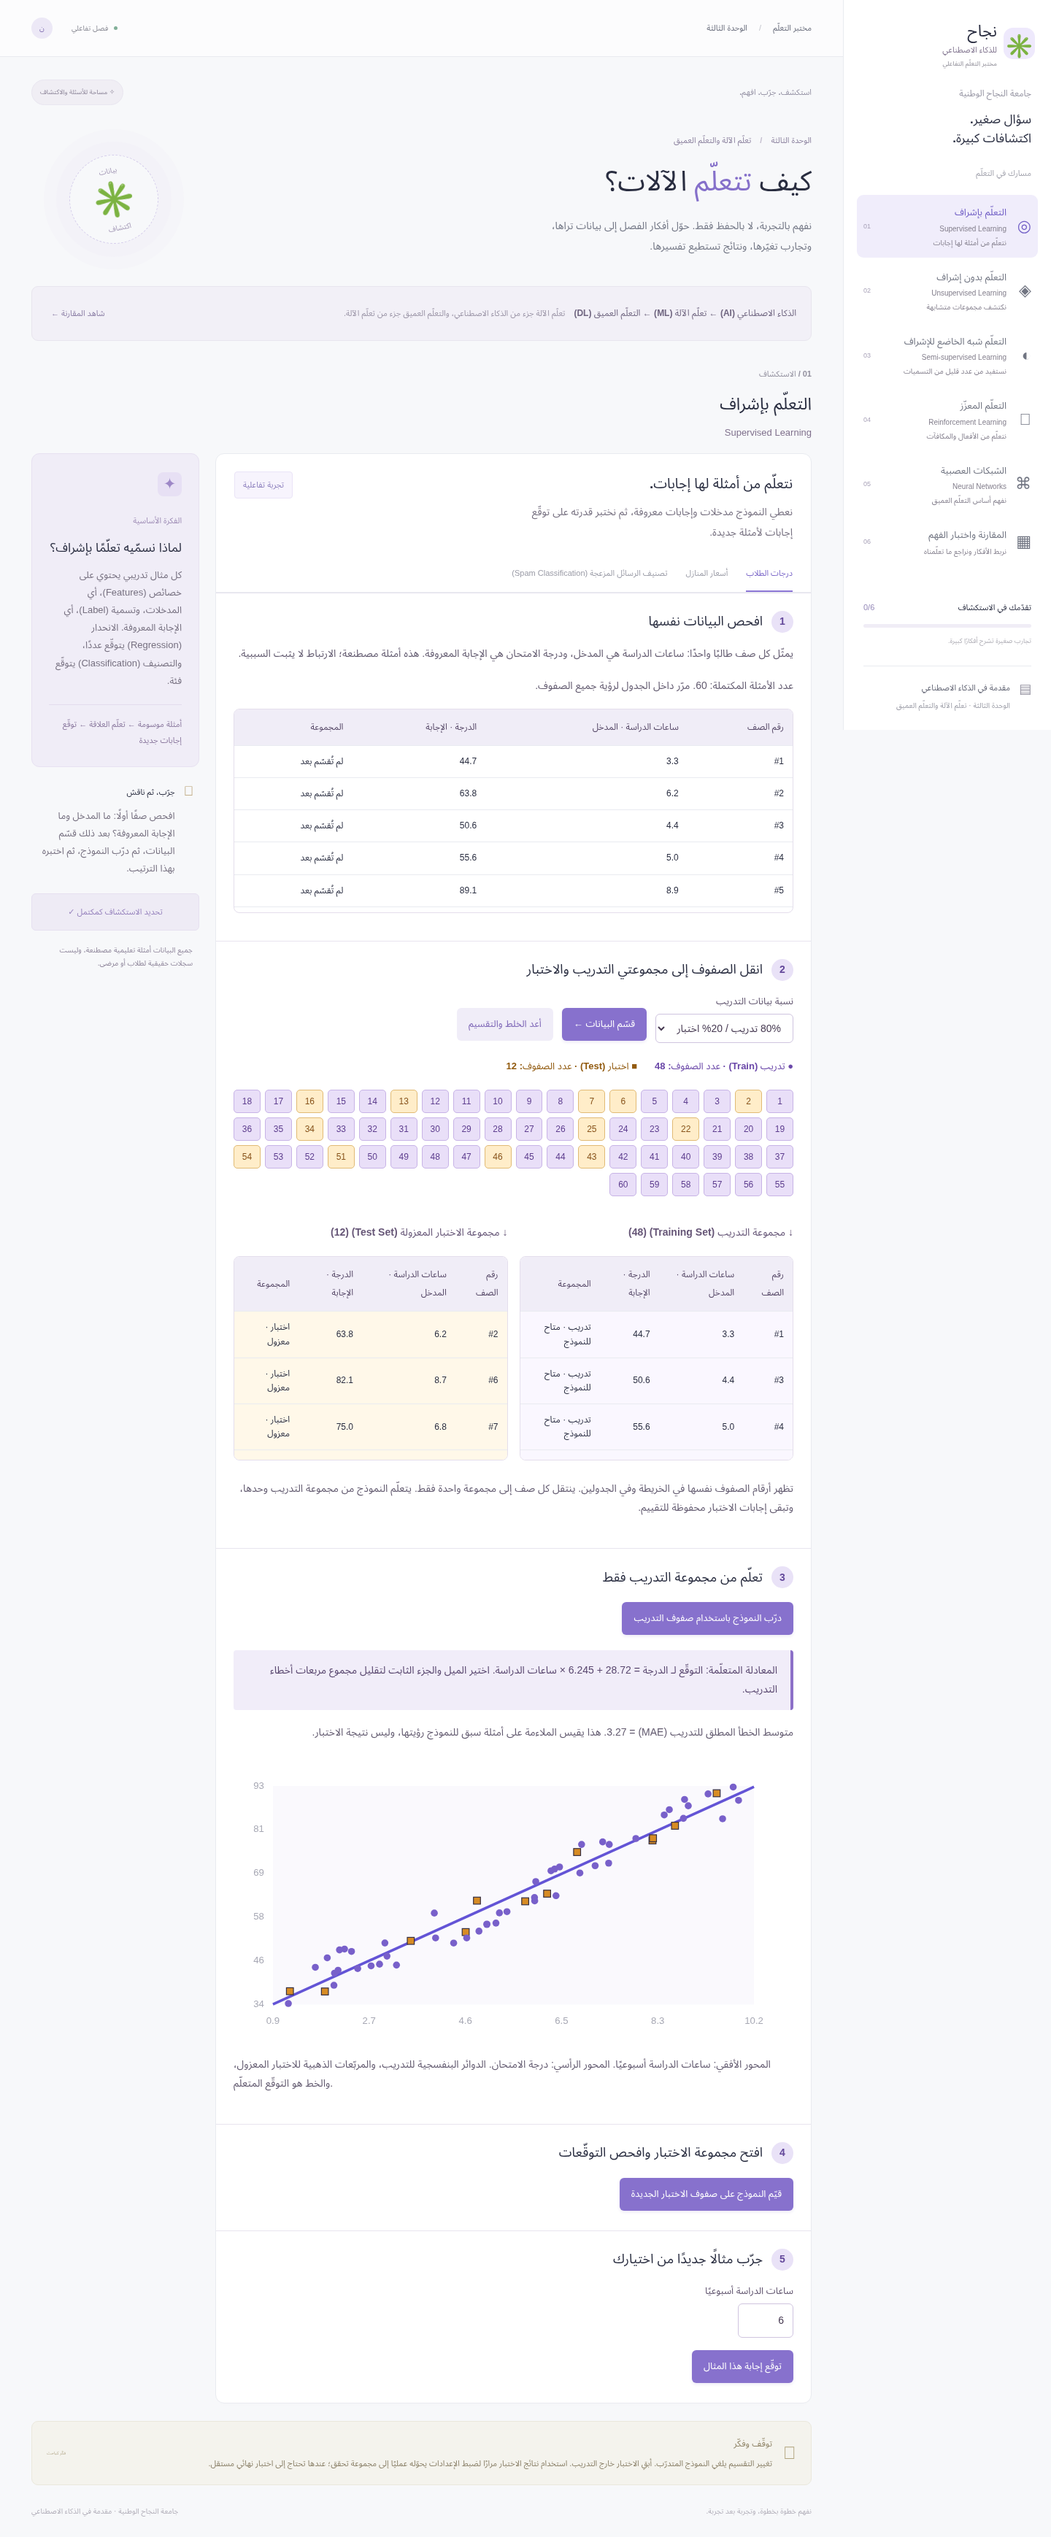
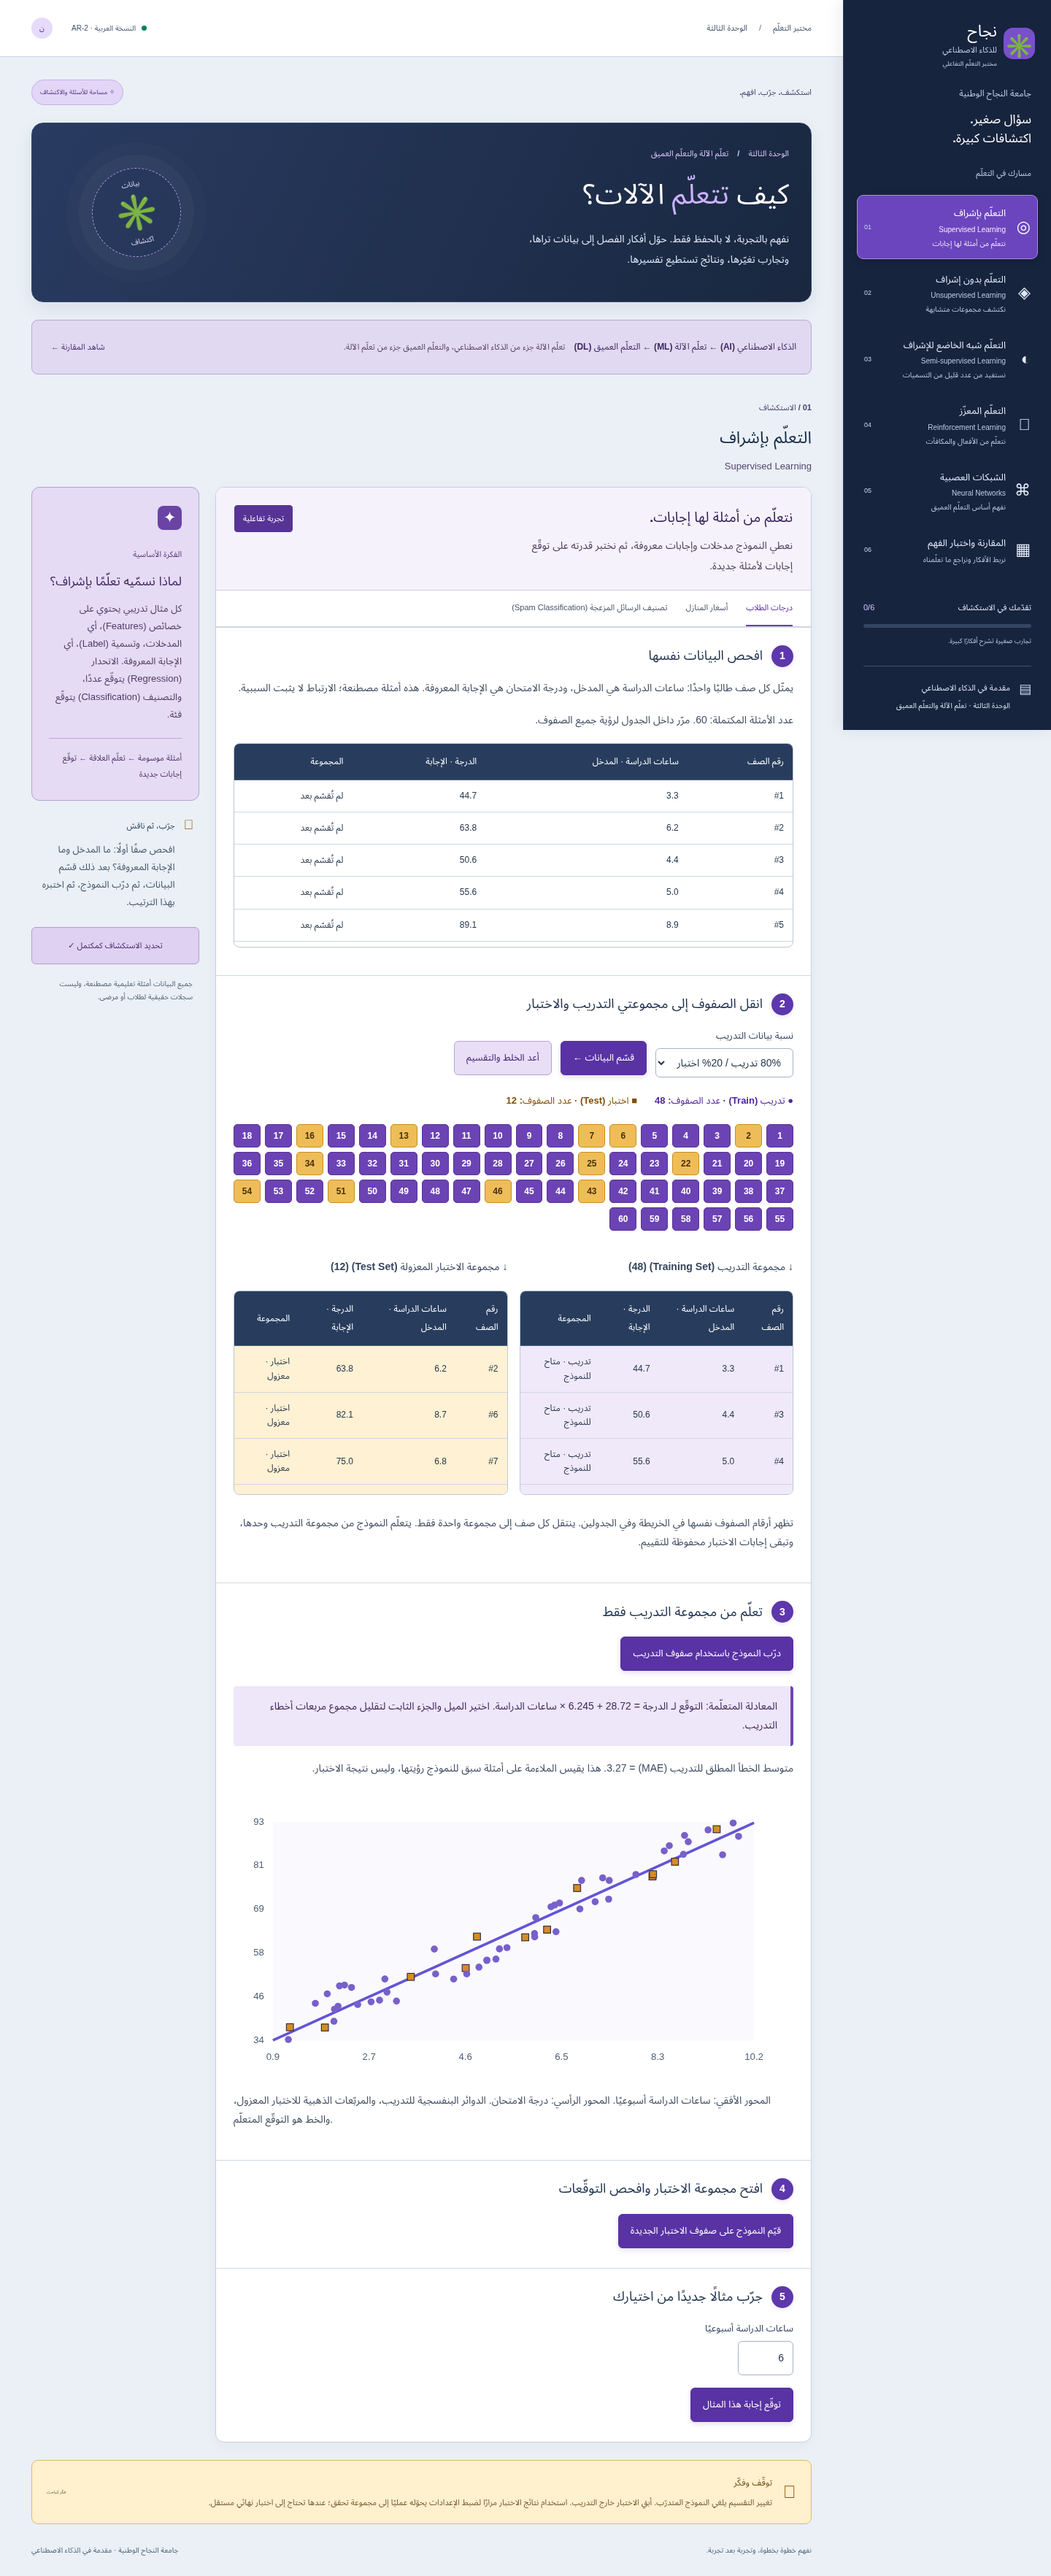
Strengthen classroom color palette and text contrast

diff --git a/src/style.css b/src/style.css
@@ -49,3 +49,131 @@ html[dir="rtl"] footer{line-height:1.9;font-size:10px}
 @media(max-width:850px){html[dir="rtl"] aside{position:static;width:auto;padding:18px 20px;overflow:visible}html[dir="rtl"] main{margin:0}html[dir="rtl"] .brand{font-size:20px}html[dir="rtl"] .nav-item{padding:9px 12px}html[dir="rtl"] .nav-item>span:nth-child(2){font-size:11px}html[dir="rtl"] .nav-item small{display:none}}
 @media(max-width:650px){html[dir="rtl"] h1{font-size:29px}html[dir="rtl"] .intro p{font-size:13px}html[dir="rtl"] .concept-strip>span{font-size:11px}html[dir="rtl"] .forward-flow>span{transform:rotate(90deg)}html[dir="rtl"] .avatar{margin-right:8px}html[dir="rtl"] footer{font-size:9px}}
 @media print{html[dir="rtl"] main{margin:0}html[dir="rtl"] .english-term{text-align:right}}
+
+/* High-contrast classroom palette: ink, indigo, teal, and amber. */
+:root{--ink:#18243b;--muted:#48576d;--purple:#5935b5;--line:#ccd5e2;background:#eaf0f6;color:var(--ink)}
+body{background:#eaf0f6;color:var(--ink)}
+html[dir="rtl"] aside{background:#17243e;border-color:#2f4161;box-shadow:-4px 0 22px #12213b12}
+html[dir="rtl"] .brand{color:#fff}
+.brand-icon{background:#7850cc;color:#fff}
+html[dir="rtl"] :is(.brand-light,.brand small,.course-tag,.nav-label){color:#c2cee2}
+.course-title{color:#fff}
+.nav-item{color:#e1e9f7;border:1px solid transparent}
+.nav-item small{color:#bcc9df}
+.nav-item:hover{background:#243858;border-color:#486080}
+.nav-item.active{background:#6b45bd;border-color:#a98bdf;color:#fff;box-shadow:0 4px 12px #0002}
+.nav-item.active small{color:#f2eaff}
+.nav-check{color:#c5d3ea}
+.side-bottom{color:#e1e9f7}
+.progress-heading span{color:#d5c6ff}
+.progress-track{background:#354563}
+.progress-track i{background:#b89cff}
+.side-bottom p{color:#c1cde0}
+.chapter{border-color:#42516c;color:#c9d5e8}
+.chapter span,.chapter small{color:#d8e2f2}
+header{background:#fff;border-color:#ccd5e2}
+.breadcrumbs,.header-right{color:#43536b}
+.breadcrumbs span{color:#65758b}
+.live-dot{background:#07805f;width:7px;height:7px}
+.avatar{background:#e6dbfa;color:#4e2b99;font-weight:700}
+.eyebrow,.section-kicker,.lesson-number{color:#4d436d}
+.unit-pill{background:#e2d6f7;border-color:#c7afe9;color:#4d2f80}
+.intro{background:linear-gradient(115deg,#293b61,#19273f);border:1px solid #32466b;border-radius:16px;padding:30px;margin:24px 0;color:#fff;box-shadow:0 9px 24px #17243e14}
+.intro .lesson-number{color:#d8c7ff}
+.intro .lesson-number span{color:#c1cde0}
+h1 em{color:#cbb1ff}
+html[dir="rtl"] .intro p{color:#e0e8f5}
+.art-ring{border-color:#b497e2;box-shadow:0 0 0 18px #ffffff08,0 0 0 35px #ffffff04}
+.art-ring b{color:#cbb1ff}
+.art-ring span{color:#e4d9f8}
+.concept-strip{background:#e1d9f1;border-color:#b9a8d2}
+.concept-strip>span{color:#402866}
+.concept-strip p{color:#564267}
+.concept-strip button{color:#493074;font-weight:700}
+html[dir="rtl"] .english-term{color:#57466e}
+h2{color:#172b47}
+.lab-card{border-color:#c6d0df;box-shadow:0 5px 18px #2636500a}
+.lab-intro{background:#f5f2fc;border-bottom:1px solid #d6cbe8}
+.lab-intro h3{color:#342155}
+.lab-intro p{color:#4c405c}
+.lab-badge{background:#573395;color:#fff;border-color:#573395}
+.tabs{background:#fff;border-color:#cbd4e2}
+.tabs button{color:#47536a}
+.tabs button:hover{color:#4c2497;background:#f3edfc}
+.tabs button.selected{color:#542b9f;border-color:#663abb;font-weight:700}
+.teaching-step{border-color:#d0d8e5}
+.teaching-step>h3{color:#1c304c}
+.teaching-step>h3>span{background:#5d37ac;color:#fff;box-shadow:0 2px 6px #5935b522}
+.explain{color:#3e4c60}
+.learning-status{background:#eee7fa;color:#3f285d;border-color:#7045b8}
+html[dir="rtl"] .learning-status{border-right-color:#7045b8}
+.teaching-step .primary,.primary{background:#5932a4;color:#fff;box-shadow:0 3px 7px #5932a428;border:1px solid #5932a4}
+.teaching-step .primary:hover,.primary:hover{background:#43217f;border-color:#43217f}
+.secondary,.teaching-step .secondary{background:#e8dff6;color:#472477;border:1px solid #b9a0d8}
+.secondary:hover,.teaching-step .secondary:hover{background:#dac9ef}
+.reset,.teaching-step .reset{background:#edf1f7;border-color:#bbc6d5;color:#334760}
+.teaching-step button:disabled{opacity:1;background:#e3e8ef;color:#647083;border-color:#cbd3dd;box-shadow:none}
+.field-label,.lesson-controls label{color:#33445d}
+.field-label input,.field-label select,.lesson-controls select{border-color:#a5b3c7;color:#24364e;background:#fff}
+.split-legend b:first-child{color:#51269a}
+.split-legend b:last-child{color:#80500b}
+.train-chip{background:#6b43b4;color:#fff;border-color:#583395;font-weight:700}
+.test-chip{background:#efbd58;color:#493008;border-color:#c98c22;font-weight:700}
+.split-columns h4{color:#36465d}
+.rows-scroll{border-color:#bbc7d7}
+.rows-scroll th{background:#283d5e;color:#fff;border-color:#526481}
+.rows-scroll td{color:#24364d;border-color:#ced6e3}
+.train-row{background:#f0e9fa}
+.test-row{background:#fff1d3}
+.rows-scroll tbody tr:hover{box-shadow:inset 0 0 0 2px #9479bf;background:#e9e2f3}
+.guide-card{background:#e5dbf4;border-color:#b5a0d2}
+.guide-card h3{color:#3d245f}
+.guide-card p{color:#4f3b68}
+.guide-card .eyebrow{color:#5c3e7f}
+.guide-icon{background:#6a43a5;color:#fff}
+.flow{color:#4e326b;border-color:#bca5d7}
+.try-card>span{color:#906016}
+.try-card h4{color:#293c55}
+.try-card p{color:#46556a}
+.complete{background:#dfd1f1;border-color:#b79bd6;color:#49276f;font-weight:700}
+.data-note{color:#526074}
+.takeaway{background:#fff0ce;border-color:#dfba69}
+.takeaway>span:first-child{color:#8b5b0e}
+.takeaway b{color:#725015}
+.takeaway p,.takeaway-tag{color:#71582a}
+.rl-definitions>div{background:#e7edf6;border:1px solid #c0ccde}
+.rl-definitions b{color:#243d5b}
+.rl-definitions p{color:#43546b}
+.cell{background:#e3e9f2;border:1px solid #b5c1d3;color:#4d5d77}
+.cell small{color:#485a73}
+.cell.path{background:#d4c1f0;color:#50347b;border-color:#a787d0}
+.cell.trap{background:#fbd5d3;color:#9c2826;border-color:#da8985}
+.cell.goal{background:#bce7d6;color:#0e5a42;border-color:#59a68a}
+.cell.robot-cell{background:#5935a3;color:#fff;outline-color:#c1a4ec;border-color:#3e1d7c}
+.cell.robot-cell small{color:#f3ecff}
+.transition-cards>div,.q-cards>div{background:#f1ebf9;border-color:#bfa9db}
+.transition-cards b,.q-cards b{color:#3f2b5b}
+.transition-cards small,.q-cards small{color:#665078}
+.q-cards strong{color:#55338b}
+.q-cards .updated{background:#dfc9fa;border-color:#7e4cba}
+.math-details{background:#f7f3fc;border-color:#b9a1d5}
+.math-details summary{color:#4c3167}
+.math-details code{color:#452b62}
+.forward-flow{background:#e9dff6;border:1px solid #bca5d8}
+.forward-flow b{color:#432c60}
+.forward-flow p{color:#503d67}
+.axis{fill:#4f6076}
+.comparison,.workflow,.quiz,.teacher-note{border-color:#bfcbdb;box-shadow:0 3px 12px #26365008}
+.comparison th{background:#283d5e;color:#fff}
+.comparison td{color:#253b55}
+.highlight-row{background:#e8dcf6}
+.workflow h3,.quiz h3,.teacher-note h3{color:#233957}
+.workflow article>span,.quiz legend span{color:#6539a0;font-weight:700}
+.workflow p,.quiz>p,.teacher-note p{color:#43536b}
+.workflow h4,.quiz legend{color:#263c58}
+.quiz label{color:#40516a}
+.feedback,#score{color:#4c287d;font-weight:500}
+footer{color:#4f6076}
+button:focus-visible,a:focus-visible,input:focus-visible,textarea:focus-visible,select:focus-visible{outline:3px solid #b57818;outline-offset:3px}
+@media(max-width:650px){.intro{padding:22px 18px;margin:18px 0}.nav-item.active{box-shadow:none}}
+@media print{body{background:#fff}.intro,.guide-card,.learning-status,.takeaway{box-shadow:none;color:#000}.rows-scroll th,.comparison th{background:#e3e3e3;color:#000}}
